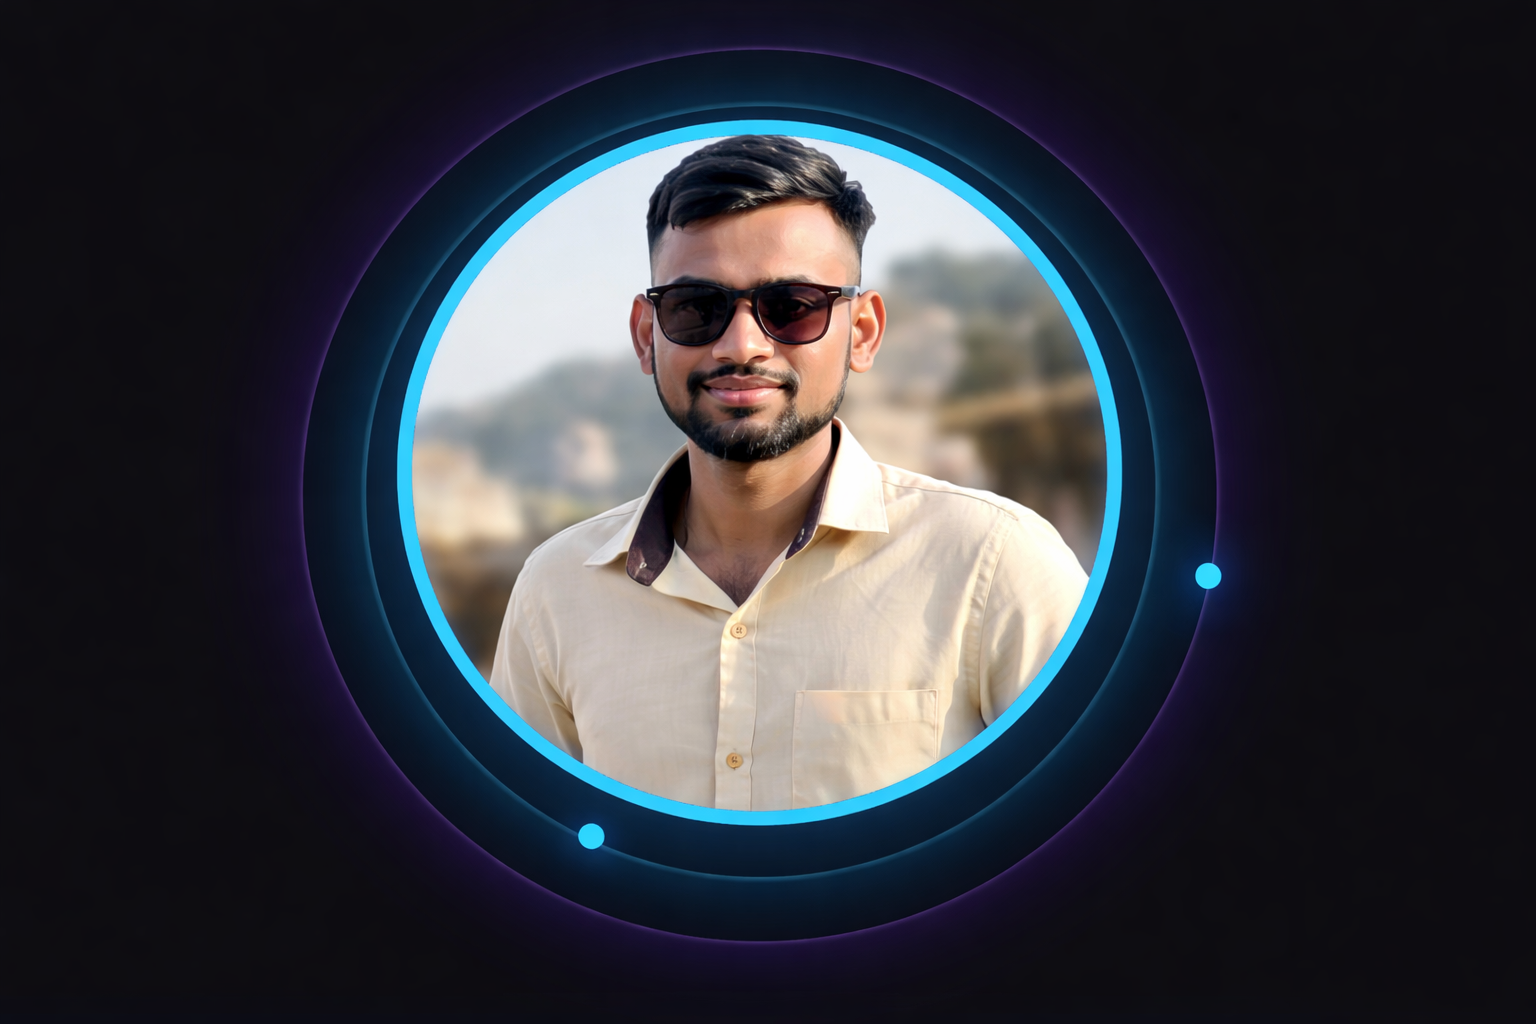
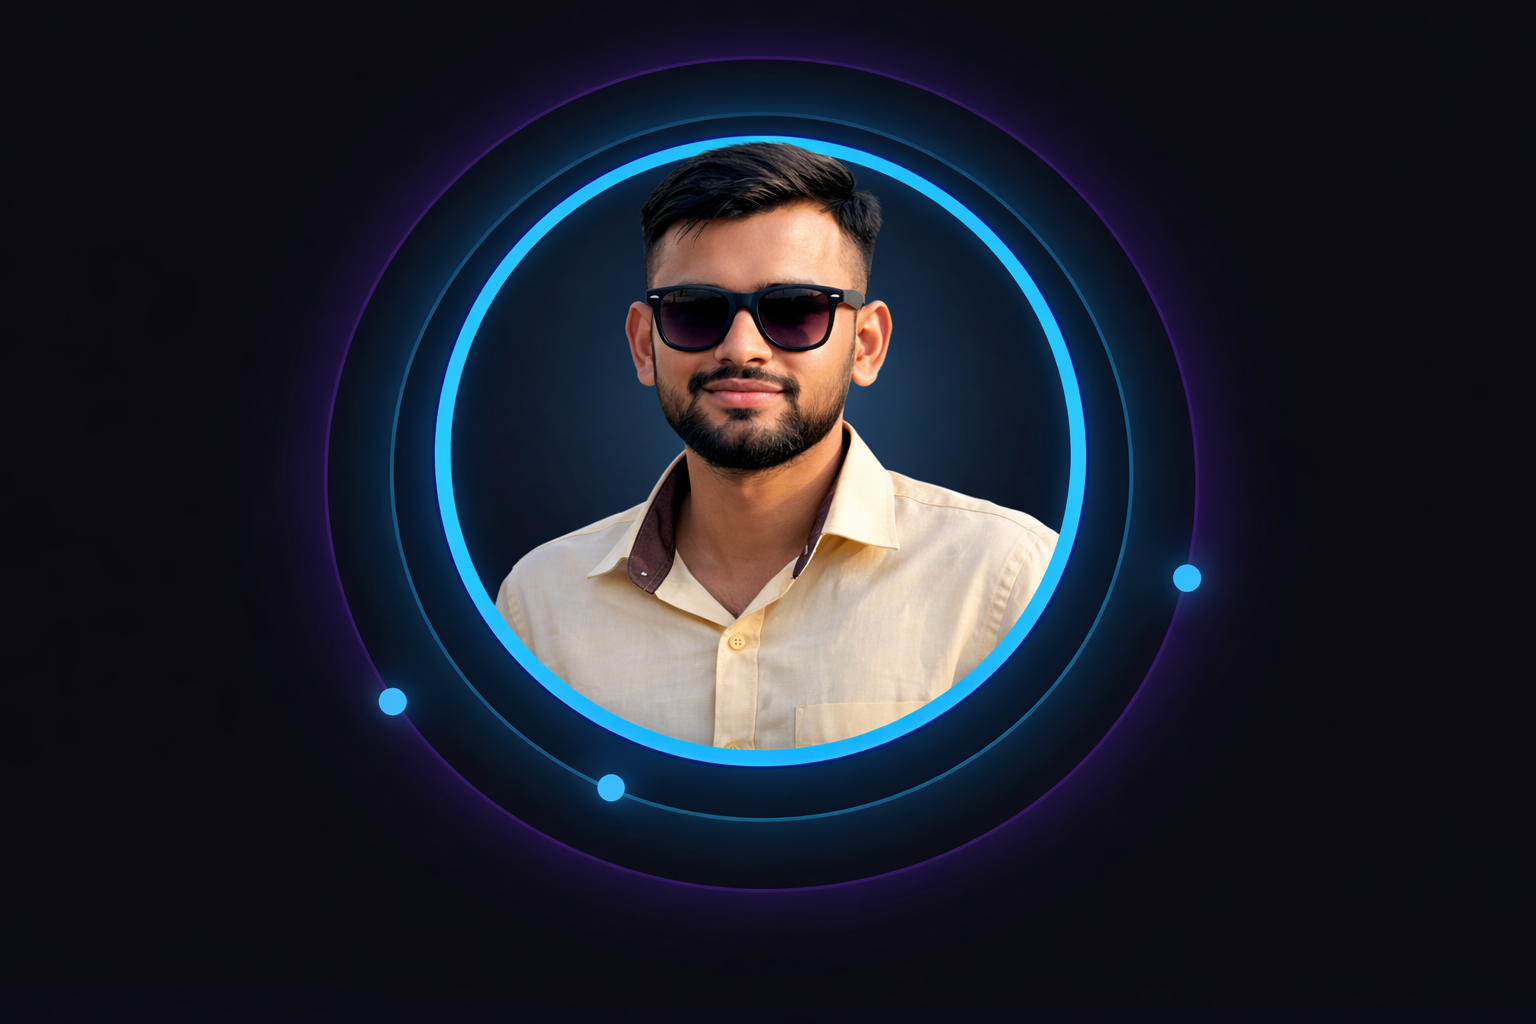
chore: auto update

diff --git a/frontend/src/components/Home.jsx b/frontend/src/components/Home.jsx
@@ -200,7 +200,7 @@ const Home = () => {
             }}
           >
             <img
-              src="/bio.png"
+              src="https://images.unsplash.com/photo-1560250097-0b93528c311a?crop=entropy&cs=srgb&fm=jpg&ixid=M3w4NjA1MDV8MHwxfHNlYXJjaHwxfHxwcm9mZXNzaW9uYWwlMjBoZWFkc2hvdHxlbnwwfHx8fDE3NjkzNDE0NDN8MA&ixlib=rb-4.1.0&q=85"
               alt="Naveen Kumar"
               className="profile-photo"
             />
